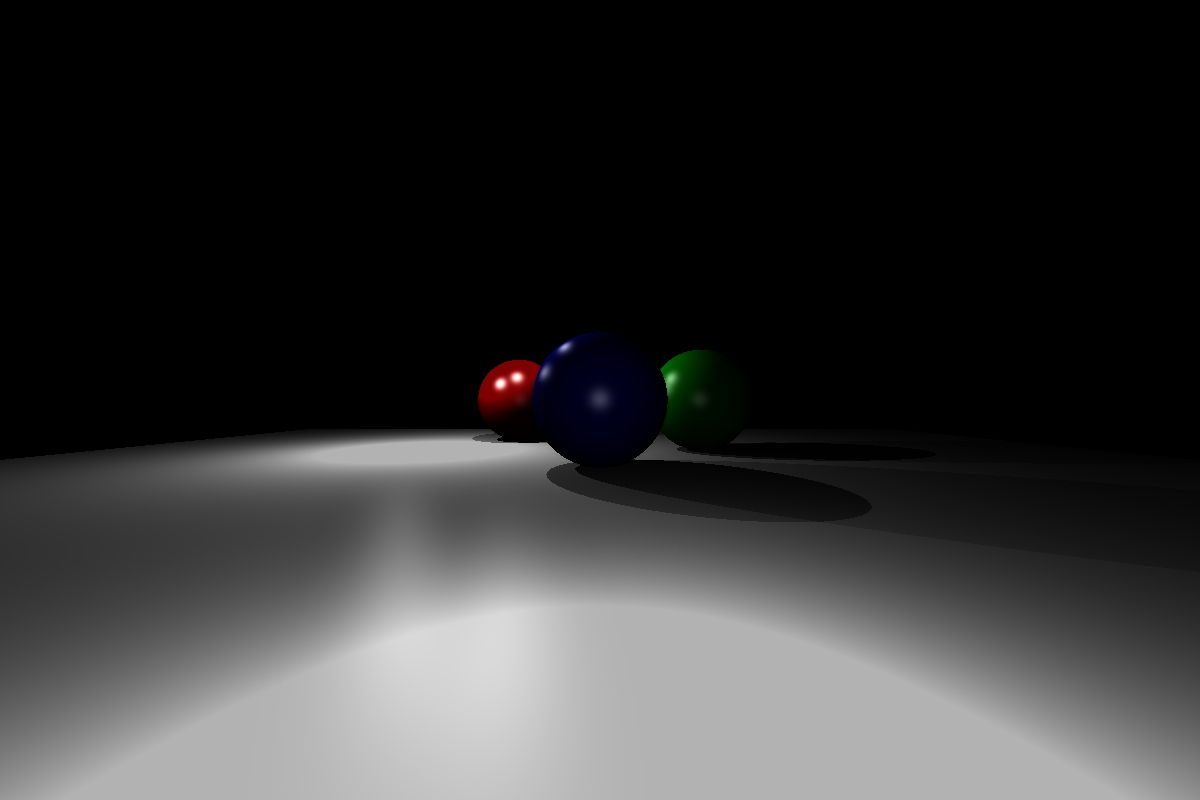
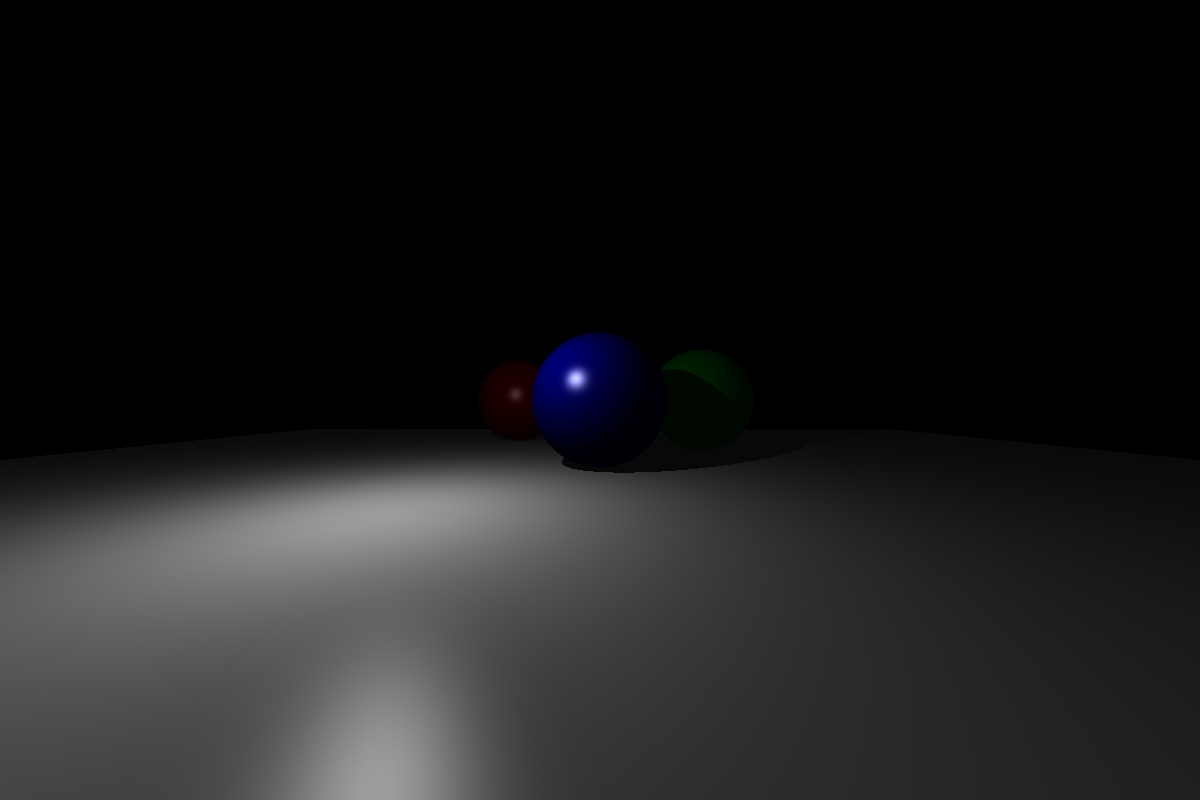
added ambient

diff --git a/src/ofApp.cpp b/src/ofApp.cpp
@@ -50,17 +50,20 @@ void ofApp::setup(){
 	prevCam.setOrientation(glm::angleAxis(glm::radians(180.0f), cam.getUp()));
 
 	//RayTracer::testRayTracer(cam, set, lights, dim, img);
+
+
+	debugGui.setup();
+	debugGui.add(lightPos.setup("Test Light Position", ofVec3f(0, 50, 0), ofVec3f(-100, -100, -100), ofVec3f(100, 100, 100)));
+	debugGui.add(intensity1.setup("Light1 Intensity", 5000.0f, 0.0f, 10000.0f));
+	debugGui.add(intensity2.setup("Light2 Intensity", 5000.0f, 0.0f, 10000.0f));
+	debugGui.add(intensity3.setup("Test Light Intensity", 5000.0f, 0.0f, 10000.0f));
+	debugGui.add(phongPower.setup("Phong Power", 150.0f, 10.0f, 600.0f));
+	debugGui.add(ambientBase.setup("Ambient Value", 0.05f, 0.0f, 1.0f));
+	
 	renderPhongImage();
 	img.save("render.jpg");
 	img2.load("render.jpg");
 	ofSetBackgroundColor(ofColor::black);
-
-	debugGui.setup();
-	debugGui.add(lightPos.setup("Test Light Position", ofVec3f(0, 50, 0), ofVec3f(-100, -100, -100), ofVec3f(100, 100, 100)));
-	debugGui.add(intensity1.setup("Light1 Intensity", 10000.0f, 0.0f, 100000.0f));
-	debugGui.add(intensity2.setup("Light2 Intensity", 10000.0f, 0.0f, 100000.0f));
-	debugGui.add(intensity3.setup("Test Light Intensity", 10000.0f, 0.0f, 100000.0f));
-	debugGui.add(phongPower.setup("Phong Power", 150.0f, 10.0f, 600.0f));
 
 
 }
@@ -78,14 +81,16 @@ void ofApp::update(){
 
 //--------------------------------------------------------------
 void ofApp::draw(){
-	prevCam.begin();
-	for (auto light : lights)
-		light->drawDebug();
-	for (auto obj : set)
-		obj->draw();
-	prevCam.end();
-	if (drawRender) img2.draw(glm::vec2(0.0f, 0.0f));
 
+	img2.draw(glm::vec2(0.0f, 0.0f));
+	if (drawRender) {
+		prevCam.begin();
+		for (auto light : lights)
+			light->drawDebug();
+		for (auto obj : set)
+			obj->draw();
+		prevCam.end();
+	}
 	debugGui.draw();
 }
 
@@ -93,12 +98,14 @@ void ofApp::draw(){
 void ofApp::keyPressed(int key){
 	switch(key)
 	{
+	case 'L':
 	case 'l':
 		renderLambertImage();
 
 		img.save("render.jpg");
 		img2.load("render.jpg");
 		break;
+	case 'P':
 	case 'p':
 		renderPhongImage();
 
@@ -164,11 +171,11 @@ void ofApp::dragEvent(ofDragInfo dragInfo){
 
 ofColor ofApp::lambert(const glm::vec3 &p, const glm::vec3 &norm, const ofColor diffuse)
 {
-	float luminence;
-	if (lights.size() == 0)
+	float luminence = ambientBase;
+	/*if (lights.size() == 0)
 		luminence = 1.0f;
 	else
-		luminence = 0.0f;
+		luminence = 0.0f;*/
 	for (auto light : lights)
 	{
 		glm::vec3 lightRay = light->getPos() - p;

diff --git a/src/ofApp.h b/src/ofApp.h
@@ -19,6 +19,7 @@ class ofApp : public ofBaseApp{
 		ofxFloatSlider intensity2;
 		ofxFloatSlider intensity3;
 		ofxFloatSlider phongPower;
+		ofxFloatSlider ambientBase;
 		ofxPanel debugGui;
 
 		void setup();
